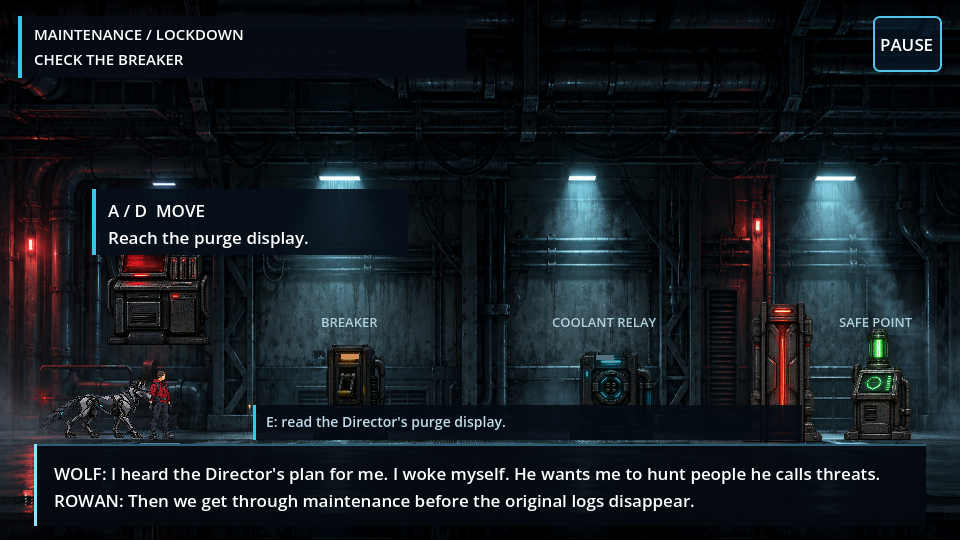
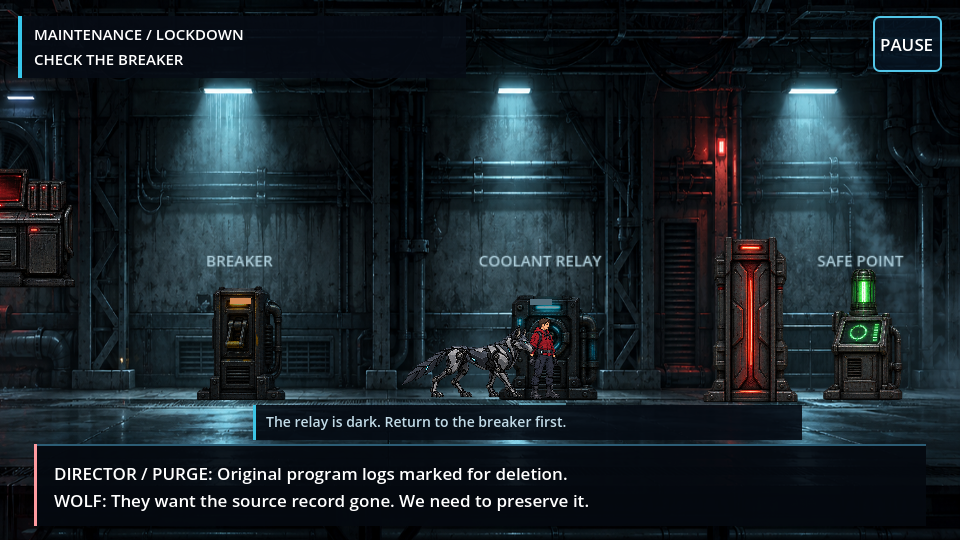
Show updated game stills and source credits

diff --git a/apps/docs/app/page.tsx b/apps/docs/app/page.tsx
@@ -29,7 +29,8 @@ export default function HomePage() {
       </section>
       <section id="gameplay" className="marketing-play marketing-width" aria-labelledby="play-title">
         <div className="marketing-section-head"><p className="marketing-kicker">The relationship is the game</p><h2 id="play-title">Find a way forward. Together.</h2><p>The current source chapter spans a corridor and Records Access. It is a small beginning to a larger story.</p></div>
-        <figure className="marketing-game-frame"><img src={`${base}/corridor-source-build.png`} alt="Source-game view of the engineer and WOLF in the maintenance corridor, with a movement tutorial and power stations." width="960" height="540" loading="lazy" /><figcaption><strong>Inside the current source build</strong><span>Godot-rendered development frame · Provisional art and UI</span></figcaption></figure>
+        <figure className="marketing-game-frame"><a href={`${base}/corridor-source-build.png`} target="_blank" rel="noopener noreferrer" aria-label="Open full-size corridor screenshot"><img src={`${base}/corridor-source-build.png`} alt="The engineer and WOLF beside the coolant relay in the scrolling maintenance corridor, with the breaker, sealed door and safe point visible." width="960" height="540" loading="lazy" /></a><figcaption><strong>Inside the current source build</strong><span>Godot-rendered development frame · Tap to enlarge · Provisional art and UI</span></figcaption></figure>
+        <figure className="marketing-game-frame marketing-menu-frame"><a href={`${base}/terminal-title-source-build.png`} target="_blank" rel="noopener noreferrer" aria-label="Open full-size title menu screenshot"><img src={`${base}/terminal-title-source-build.png`} alt="WOLF//OVERRIDE title menu styled as THE DEN local access terminal, with New Game, Continue, Credits and Settings." width="960" height="540" loading="lazy" /></a><figcaption><strong>The local access terminal</strong><span>Current title menu · Tap to enlarge</span></figcaption></figure>
         <div className="marketing-features">
           <article><span aria-hidden="true">01</span><h3>Be the engineer</h3><p>Explore a side-view facility with WOLF beside you. You control the engineer; he acts as an independent companion.</p></article>
           <article><span aria-hidden="true">02</span><h3>Respect his boundaries</h3><p>Cooperate to open a path, or take the manual route when WOLF refuses. Essential progress stays in your hands.</p></article>

diff --git a/apps/docs/app/marketing.css b/apps/docs/app/marketing.css
@@ -58,8 +58,10 @@
 .marketing-download-links{display:flex;flex-wrap:wrap;gap:1rem 2rem;margin-top:1.5rem}
 .marketing-game-frame{margin:2.5rem 0 0;border:1px solid var(--mk-line);background:var(--mk-surface)}
 .marketing-game-frame img{display:block;width:100%;height:auto}
+.marketing-game-frame a{display:block}
 .marketing-game-frame figcaption{display:flex;justify-content:space-between;flex-wrap:wrap;gap:.5rem;padding:1rem;font-size:.8rem;color:var(--mk-muted)}
 .marketing-game-frame strong{color:var(--mk-text)}
+.marketing-menu-frame{max-width:580px;margin:1rem 0 0 auto}
 .marketing-download-detail{font-size:.82rem;color:var(--mk-muted);line-height:1.5}
 .marketing-coming-soon{font:.75rem "Courier New",monospace;text-transform:uppercase;letter-spacing:.06em;color:var(--mk-accent);margin-top:.7rem}
 .marketing-download-note{font-size:.8rem;line-height:1.7;color:var(--mk-muted);margin-top:1.5rem}

diff --git a/README.md b/README.md
@@ -18,6 +18,9 @@ provisional character, title, room, and machine art, one door puzzle, and a firs
 record-copying objective. Character animation, audio, the wider campaign,
 public export packages and physical-device testing are still ahead.
 
+The gameplay camera follows the engineer across each room with a closer view.
+The title and settings menus use THE DEN's local-terminal styling.
+
 **Quick play:** The opening shows only WOLF and the Director. Press **E** to
 advance WOLF's escape or **Esc** to skip it. You then control the engineer,
 who uses they/them pronouns; Rowan Vale is their provisional default name.
